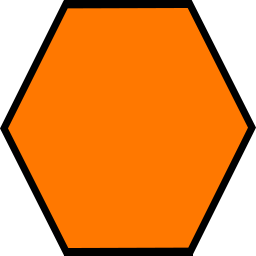
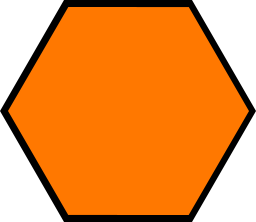
Création des différentes coordonnés pour trouver une cellule sur une map. Et début de l'implémentation complète de InGameScreen

diff --git a/core/assets/maps/hex.tsx b/core/assets/maps/hex.tsx
@@ -1,16 +1,13 @@
 <?xml version="1.0" encoding="UTF-8"?>
-<tileset version="1.2" tiledversion="1.2.1" name="hex" tilewidth="256" tileheight="256" tilecount="4" columns="0">
+<tileset version="1.2" tiledversion="1.2.2" name="hex" tilewidth="256" tileheight="222" tilecount="3" columns="0">
  <grid orientation="orthogonal" width="1" height="1"/>
  <tile id="0">
-  <image width="256" height="256" source="hex_blue.png"/>
+  <image width="256" height="222" source="hex_blue.png"/>
  </tile>
  <tile id="1">
-  <image width="256" height="256" source="hex_orange.png"/>
+  <image width="256" height="222" source="hex_orange.png"/>
  </tile>
- <tile id="3">
-  <image width="256" height="256" source="hex_neutral.png"/>
- </tile>
- <tile id="4">
-  <image width="256" height="256" source="hex_water.png"/>
+ <tile id="2">
+  <image width="256" height="222" source="hex_neutral.png"/>
  </tile>
 </tileset>

diff --git a/core/src/gui/graphics/screens/InGameScreen.java b/core/src/gui/graphics/screens/InGameScreen.java
@@ -1,12 +1,23 @@
 package gui.graphics.screens;
 
 
+import com.badlogic.gdx.Gdx;
+import com.badlogic.gdx.graphics.OrthographicCamera;
 import com.badlogic.gdx.maps.tiled.TiledMap;
 import com.badlogic.gdx.maps.tiled.TiledMapTileLayer;
 import com.badlogic.gdx.maps.tiled.TiledMapTileSet;
 import com.badlogic.gdx.maps.tiled.TmxMapLoader;
 import com.badlogic.gdx.maps.tiled.renderers.HexagonalTiledMapRenderer;
+import com.badlogic.gdx.math.Vector2;
+import com.badlogic.gdx.math.Vector3;
+import com.badlogic.gdx.scenes.scene2d.Stage;
+import com.badlogic.gdx.utils.Scaling;
+import com.badlogic.gdx.utils.viewport.FillViewport;
+import com.badlogic.gdx.utils.viewport.FitViewport;
+import com.badlogic.gdx.utils.viewport.ScalingViewport;
 import gui.app.Slay;
+import logic.Coords.OffsetCoords;
+import logic.Coords.TransformCoords;
 
 public class InGameScreen extends BasicScreen {
 
@@ -14,16 +25,21 @@ public class InGameScreen extends BasicScreen {
     private HexagonalTiledMapRenderer tiledMapRenderer;
     private TiledMapTileLayer board;
     private TiledMapTileSet tileSet;
+    private Vector3 mouseLoc = new Vector3();
+
 
     public InGameScreen(Slay parent, String mapName) {
         super(parent);
         camera.setToOrtho(true);
-        camera.update();
         map = new TmxMapLoader().load("maps/" + mapName);
         tiledMapRenderer = new HexagonalTiledMapRenderer(map);
         board = (TiledMapTileLayer) map.getLayers().get("background"); //cellules
         tileSet = map.getTileSets().getTileSet("hex");
+        System.out.println(tileSet.getTile(1));
 
+        viewport = new FillViewport((board.getWidth()/2) * board.getTileWidth() + (board.getWidth() / 2) * (board.getTileWidth() / 2) + board.getTileWidth()/4,
+                board.getHeight() * board.getTileHeight() + board.getTileHeight() / 2, camera);
+        camera.update();
     }
 
     @Override
@@ -32,7 +48,59 @@ public class InGameScreen extends BasicScreen {
         camera.update();
         tiledMapRenderer.setView(camera);
         tiledMapRenderer.render();
+        mouseLoc.x = Gdx.input.getX();
+        mouseLoc.y = Gdx.input.getY();
+        camera.unproject(mouseLoc);
+        if(Gdx.input.isButtonPressed(102)) {
+            OffsetCoords coords = getCoordsFromMousePosition(mouseLoc);
+            if(board.getCell(coords.col,coords.row) != null) {
+                board.getCell(coords.col, coords.row).setTile(tileSet.getTile(1));
+            }
+        }
+        if(Gdx.input.isKeyPressed(19)) {
+            camera.zoom -= 0.05;
+        }
+        if(Gdx.input.isKeyPressed(20)) {
+            camera.zoom += 0.05;
+        }
+
+        if(Gdx.input.isKeyPressed(51)) {
+            camera.translate(0,-10);
+        }
+        if(Gdx.input.isKeyPressed(47)) {
+            camera.translate(0,10);
+        }
+        if(Gdx.input.isKeyPressed(29)) {
+            camera.translate(-10,0);
+        }
+        if(Gdx.input.isKeyPressed(32)) {
+            camera.translate(+10,0);
+        }
+
     }
+
+    protected void generateStage() {
+        camera = new OrthographicCamera();
+        viewport = new FillViewport(1920, 1080, camera);
+        viewport.update(Gdx.graphics.getWidth(), Gdx.graphics.getHeight(), true);
+        stage = new Stage(viewport);
+        Gdx.input.setInputProcessor(stage);
+    }
+
+    /**
+     * Retourne les coordonnées de la cellule qui se trouve à la position de la souris
+     * @param mouseLoc position de la souris
+     * @return les coordonnées de la cellule qui est à la position de la souris
+     */
+    private OffsetCoords getCoordsFromMousePosition(Vector3 mouseLoc) {
+        //- board.getTileWidth() / 2 et - board.getTileHeight() / 2 sont là pour créer le décalage de l'origine.
+        // Ce qui permet de retrouver les bonnes coordonnés
+        // le (int)board.getTileWidth() /2 correspond à la taille de l'hexagone (ie la longueur de la droite qui va du
+        // centre vers une des pointes de l'hexagone
+        return TransformCoords.pixelToOffset((int)(mouseLoc.x - board.getTileWidth() / 2),
+                (int)(mouseLoc.y - board.getTileHeight() / 2), (int)board.getTileWidth() /2);
+    }
+
 
     @Override
     public void show() {

diff --git a/core/test/CoordsTest.java b/core/test/CoordsTest.java
@@ -1,0 +1,70 @@
+import logic.Coords.CubeCoords;
+import logic.Coords.OffsetCoords;
+import logic.Coords.TransformCoords;
+import org.junit.Test;
+import static org.junit.Assert.*;
+
+public class CoordsTest {
+
+    @Test
+    public void testOffsetToCube() {
+        //On teste si la Coord (0,0) donne bien (0,0,0) en coordonnées cubique et on test aussi les 6 voisins de (0,0)
+        OffsetCoords hex = new OffsetCoords(0, 0 );
+        CubeCoords cube = TransformCoords.offsetToCube(hex);
+        assertEquals(cube.x, 0); assertEquals(cube.y, 0 );  assertEquals(cube.z, 0);
+        hex = new OffsetCoords(1, 0);
+        cube = TransformCoords.offsetToCube(hex);
+        assertEquals(cube.x, 1); assertEquals(cube.y, -1);  assertEquals(cube.z, 0);
+
+        hex = new OffsetCoords(0, 1);
+        cube = TransformCoords.offsetToCube(hex);
+        assertEquals(cube.x, 0); assertEquals(cube.y, -1);  assertEquals(cube.z, 1);
+
+        hex = new OffsetCoords(-1, 0);
+        cube = TransformCoords.offsetToCube(hex);
+        assertEquals(cube.x, -1); assertEquals(cube.y, 0);  assertEquals(cube.z, 1);
+
+        hex = new OffsetCoords(-1, -1);
+        cube = TransformCoords.offsetToCube(hex);
+        assertEquals(cube.x, -1); assertEquals(cube.y, 1);  assertEquals(cube.z, 0);
+
+        hex = new OffsetCoords(0, -1);
+        cube = TransformCoords.offsetToCube(hex);
+        assertEquals(cube.x, 0); assertEquals(cube.y, 1);  assertEquals(cube.z, -1);
+
+        hex = new OffsetCoords(1, -1);
+        cube = TransformCoords.offsetToCube(hex);
+        assertEquals(cube.x, 1); assertEquals(cube.y, 0);  assertEquals(cube.z, -1);
+    }
+
+    @Test
+    public void testCubeToOffset() {
+        //On teste si la Coord (0,0,0) donne bien (0,0) en coordonnées Offset et on test aussi les 6 voisins de (0,0,0)
+        CubeCoords cube = new CubeCoords(0,0,0);
+        OffsetCoords hex = TransformCoords.cubeToOffset(cube);
+        assertEquals(hex.col, 0); assertEquals(hex.row, 0 );
+        cube = new CubeCoords(1,-1,0);
+        hex = TransformCoords.cubeToOffset(cube);
+        assertEquals(hex.col, 1); assertEquals(hex.row, 0);
+
+        cube = new CubeCoords(0,-1,1);
+        hex = TransformCoords.cubeToOffset(cube);
+        assertEquals(hex.col, 0); assertEquals(hex.row, 1);
+
+        cube = new CubeCoords(-1,0,1);
+        hex = TransformCoords.cubeToOffset(cube);
+        assertEquals(hex.col, -1); assertEquals(hex.row, 0);
+
+        cube = new CubeCoords(-1,1,0);
+        hex = TransformCoords.cubeToOffset(cube);
+        assertEquals(hex.col, -1); assertEquals(hex.row, -1);
+
+        cube = new CubeCoords(0,1,-1);
+        hex = TransformCoords.cubeToOffset(cube);
+        assertEquals(hex.col, 0); assertEquals(hex.row, -1);
+
+        cube = new CubeCoords(1,0,-1);
+        hex = TransformCoords.cubeToOffset(cube);
+        assertEquals(hex.col, 1); assertEquals(hex.row, -1);
+    }
+}

diff --git a/core/src/logic/Coords/TransformCoords.java b/core/src/logic/Coords/TransformCoords.java
@@ -1,0 +1,43 @@
+package logic.Coords;
+
+public class TransformCoords {
+
+    /**
+     * Méthode qui retourne les coordonnées Offset en fonction des coordonnées cubique
+     * @param cube Les coordonnées cubiques à transformer
+     * @return les coordonnées Offset correspondant aux coordonnées cubique
+     */
+    public static OffsetCoords cubeToOffset(CubeCoords cube) {
+        return new OffsetCoords(cube.x, cube.z + (cube.x - (cube.x&1)) / 2);
+    }
+
+    /**
+     * Méthode qui retourne les coordonnées Cubique en fonction des coordonnées Offset
+     * @param hex Les coordonnées Offset à transformer
+     * @return les coordonnées Cubique correspondant aux coordonnées Offset
+     */
+    public static CubeCoords offsetToCube(OffsetCoords hex) {
+        int x = hex.col;
+        int z = hex.row - (hex.col - (hex.col&1)) / 2;
+        int y = -x-z;
+        return new CubeCoords(x, y, z);
+    }
+
+    public static CubeCoords offsetToCube(double col, double row) {
+        double x = col;
+        double z = row - (col - (col%2)) / 2;
+        double y = -x-z;
+        return new CubeCoords(x, y, z);
+    }
+
+    public static OffsetCoords pixelToOffset(int x, int y, int size) {
+        double col = (2./3 * x) / size;
+        double row = (-1./3 * x + (Math.sqrt(3)/3) * y) / size;
+        return cubeToOffset(new CubeCoords(col, -col-row, row));
+    }
+
+    public static void main(String[] args) {
+        OffsetCoords coords = pixelToOffset(204, 18, 23);
+        System.out.println(coords);
+    }
+}

diff --git a/core/src/logic/Coords/CubeCoords.java b/core/src/logic/Coords/CubeCoords.java
@@ -1,0 +1,49 @@
+package logic.Coords;
+
+/**
+ *  Cette classe représente des coordonnés en 3 dimensions (Cubique)
+ *  Les méthodes décrites sont inspirés du guide suivant
+ *  https://www.redblobgames.com/grids/hexagons/#conversions
+ */
+public class CubeCoords {
+
+    public int x, y, z;
+
+    public CubeCoords(int x, int y, int z) {
+        this.x = x;
+        this.y = y;
+        this.z = z;
+    }
+
+    public CubeCoords(double x, double y, double z) {
+        roundCube(x, y, z);
+    }
+
+    private void roundCube(double x, double y, double z) {
+        int rx = (int)Math.round(x);
+        int ry = (int)Math.round(y);
+        int rz = (int)Math.round(z);
+
+        double x_diff = Math.abs(rx - x);
+        double y_diff = Math.abs(ry - y);
+        double z_diff = Math.abs(rz - z);
+
+        if (x_diff > y_diff && x_diff > z_diff) {
+            rx = -ry-rz;
+        } else if(y_diff > z_diff) {
+            ry = -rx-rz;
+        } else {
+            rz = -rx-ry;
+        }
+        this.x = rx;
+        this.y = ry;
+        this.z = rz;
+    }
+
+
+    @Override
+    public String toString() {
+        return "x : " + x + ", y : " + y + ", z : " + z;
+    }
+
+}

diff --git a/core/src/logic/Coords/OffsetCoords.java b/core/src/logic/Coords/OffsetCoords.java
@@ -1,0 +1,21 @@
+package logic.Coords;
+
+/**
+ *  Cette classe représente des coordonnés en 2 dimensions
+ *  Les méthodes décrites sont inspirés du guide suivant
+ *  https://www.redblobgames.com/grids/hexagons/#conversions
+ */
+public class OffsetCoords {
+
+    public int col, row;
+
+    public OffsetCoords(int col, int row) {
+        this.col = col;
+        this.row = row;
+    }
+
+    @Override
+    public String toString() {
+        return "col : " + col + ", row : " + row;
+    }
+}

diff --git a/core/test/BoardTest.java b/core/test/BoardTest.java
@@ -1,4 +1,3 @@
-package unitTests;
 
 import logic.board.Board;
 import logic.board.District;
